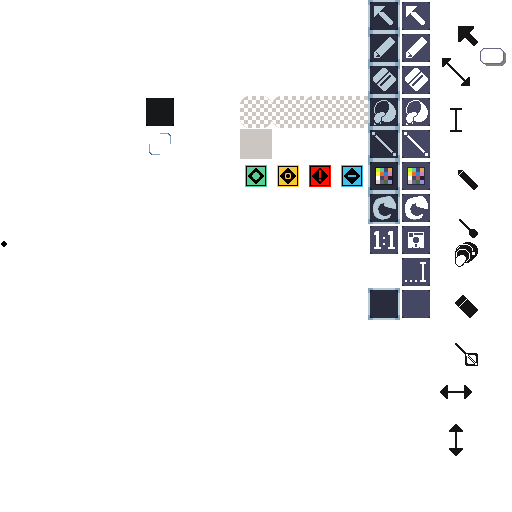
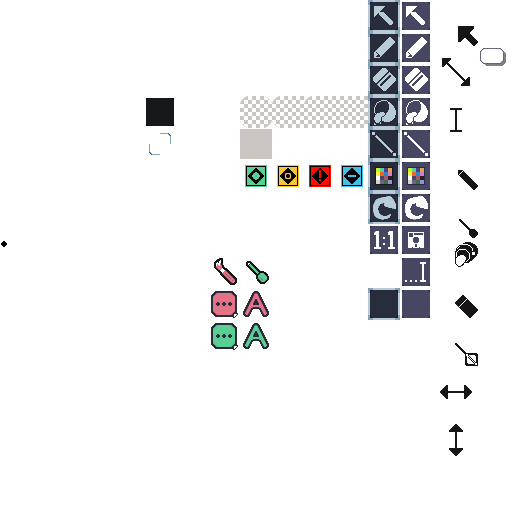
QoL Update. QoL: Adding ability to color card contents, just like card backgrounds can be colored. FIX: Toggling debug mode is disabled in non-development versions of MasterPlan. INTERNAL: The in-development version of MasterPlan now says "INDEV" in the title. Updating todo.

Changed region(s): [[0.4062, 0.5312, 0.5312, 0.6875], [0.4688, 0.5, 0.5, 0.5312], [0.4062, 0.5, 0.4375, 0.5312]]

diff --git a/main.go b/main.go
@@ -459,11 +459,11 @@ func main() {
 		// 	globals.Project = NewProject()
 		// }
 
-		if globals.Keybindings.Pressed(KBDebugToggle) {
-			globals.DebugMode = !globals.DebugMode
-		}
-
 		if globals.ReleaseMode == ReleaseModeDev {
+
+			if globals.Keybindings.Pressed(KBDebugToggle) {
+				globals.DebugMode = !globals.DebugMode
+			}
 
 			if globals.Keyboard.Key(sdl.K_F7).Pressed() {
 				profileCPU()
@@ -685,7 +685,12 @@ func main() {
 			demoText = " [DEMO]"
 		}
 
-		title := "MasterPlan v" + globals.Version.String() + demoText
+		title := ""
+		if globals.ReleaseMode == ReleaseModeDev {
+			title = "MasterPlan v" + globals.Version.String() + " INDEV"
+		} else {
+			title = "MasterPlan v" + globals.Version.String() + demoText
+		}
 
 		if globals.Project.Filepath != "" {
 			_, fileName := filepath.Split(globals.Project.Filepath)
@@ -1332,32 +1337,90 @@ func ConstructMenus() {
 	hexText.RegexString = RegexHex
 	setColor.AddRow(AlignCenter).Add("hex text", hexText)
 
-	setColor.AddRow(AlignCenter).Add("apply", NewButton("Apply to Selected", nil, nil, false, func() {
+	setColor.AddRow(AlignCenter).Add("", NewSpacer(&sdl.FRect{0, 0, 4, 8}))
+
+	// Apply colors
+
+	row = setColor.AddRow(AlignCenter)
+
+	row.Add("icon", NewGUIImage(nil, &sdl.Rect{208, 256, 32, 32}, globals.GUITexture.Texture, false))
+	row.Add("applyLabel", NewLabel("Apply to :    ", nil, false, AlignCenter))
+
+	row = setColor.AddRow(AlignCenter)
+	row.ExpandAllElements = true
+	row.Add("applyBG", NewButton("BG", nil, &sdl.Rect{208, 288, 32, 32}, false, func() {
 		selectedCards := globals.Project.CurrentPage.Selection.Cards
 		for card := range selectedCards {
 			card.CustomColor = colorWheel.SampledColor.Clone()
 			card.CreateUndoState = true
 		}
-		globals.EventLog.Log("Color applied for %d card(s).", false, len(selectedCards))
+		globals.EventLog.Log("Color applied for the background of %d card(s).", false, len(selectedCards))
 	}))
 
+	row.Add("applyFont", NewButton("Text", nil, &sdl.Rect{240, 288, 32, 32}, false, func() {
+		selectedCards := globals.Project.CurrentPage.Selection.Cards
+		for card := range selectedCards {
+			card.FontColor = colorWheel.SampledColor.Clone()
+			card.CreateUndoState = true
+		}
+		globals.EventLog.Log("Color applied for the contents of %d card(s).", false, len(selectedCards))
+	}))
+
+	// Spacer
+
+	setColor.AddRow(AlignCenter).Add("", NewSpacer(&sdl.FRect{0, 0, 4, 8}))
+
+	// Grab colors
+
 	row = setColor.AddRow(AlignCenter)
-	row.Add("grab color", NewButton("Grab Color from Selected", nil, nil, false, func() {
+
+	row.Add("icon", NewGUIImage(nil, &sdl.Rect{240, 256, 32, 32}, globals.GUITexture.Texture, false))
+
+	row.Add("grabLabel", NewLabel("Sample from :    ", nil, false, AlignCenter))
+
+	row = setColor.AddRow(AlignCenter)
+
+	row.ExpandAllElements = true
+
+	row.Add("grabBG", NewButton("BG", nil, &sdl.Rect{208, 320, 32, 32}, false, func() {
 
 		selectedCards := globals.Project.CurrentPage.Selection.AsSlice()
 		if len(selectedCards) > 0 {
 			color := selectedCards[0].Color()
 			hexText.SetText([]rune(color.ToHexString()[:6]))
 			hexText.OnClickOut()
-			globals.EventLog.Log("Grabbed selected color from first selected Card.", false)
+			globals.EventLog.Log("Grabbed background color from first selected Card.", false)
 		}
 	}))
-	row.ExpandAllElements = true
 
-	setColor.AddRow(AlignCenter).Add("default", NewButton("Reset to Default", nil, nil, false, func() {
+	row.Add("grabFont", NewButton("Text", nil, &sdl.Rect{240, 320, 32, 32}, false, func() {
+
+		selectedCards := globals.Project.CurrentPage.Selection.AsSlice()
+		if len(selectedCards) > 0 {
+
+			color := selectedCards[0].FontColor
+
+			if color != nil {
+				color = color.Clone()
+			} else {
+				color = getThemeColor(GUIFontColor)
+			}
+
+			hexText.SetText([]rune(color.ToHexString()[:6]))
+			hexText.OnClickOut()
+			globals.EventLog.Log("Grabbed content color from first selected Card.", false)
+
+		}
+
+	}))
+
+	setColor.AddRow(AlignCenter).Add("", NewSpacer(&sdl.FRect{0, 0, 4, 8}))
+
+	setColor.AddRow(AlignCenter).Add("reset to default", NewButton("Reset to Default", nil, nil, false, func() {
 		selectedCards := globals.Project.CurrentPage.Selection.Cards
 		for card := range selectedCards {
 			card.CustomColor = nil
+			card.FontColor = nil
 			card.CreateUndoState = true
 		}
 		globals.EventLog.Log("Color reset to default for %d card(s).", false, len(selectedCards))

diff --git a/card.go b/card.go
@@ -312,6 +312,7 @@ type Card struct {
 	Depth                   int
 	Valid                   bool
 	CustomColor             Color
+	FontColor               Color
 	deadlineFade            float64
 
 	GridExtents GridSelection
@@ -1305,8 +1306,21 @@ func (card *Card) DrawContents() {
 
 	card.Highlighter.Draw()
 
+	currentTheme := globals.Settings.Get(SettingsTheme).AsString()
+
+	var ogColor Color
+
+	if card.FontColor != nil {
+		ogColor = getThemeColor(GUIFontColor)
+		guiColors[currentTheme][GUIFontColor] = card.FontColor
+	}
+
 	if card.Contents != nil {
 		card.Contents.Draw()
+	}
+
+	if card.FontColor != nil {
+		guiColors[currentTheme][GUIFontColor] = ogColor
 	}
 
 }
@@ -1448,6 +1462,9 @@ func (card *Card) Serialize() string {
 	if card.CustomColor != nil {
 		data, _ = sjson.Set(data, "custom color", card.CustomColor.ToHexString())
 	}
+	if card.FontColor != nil {
+		data, _ = sjson.Set(data, "font color", card.FontColor.ToHexString())
+	}
 	data, _ = sjson.SetRaw(data, "properties", card.Properties.Serialize())
 
 	if len(card.Links) > 0 {
@@ -1519,6 +1536,13 @@ func (card *Card) Deserialize(data string) {
 		card.CustomColor = ColorFromHexString(cc.String())
 	} else {
 		card.CustomColor = nil
+	}
+
+	if gjson.Get(data, "font color").Exists() {
+		cc := gjson.Get(data, "font color")
+		card.FontColor = ColorFromHexString(cc.String())
+	} else {
+		card.FontColor = nil
 	}
 
 	// for _, link := range card.Links {
